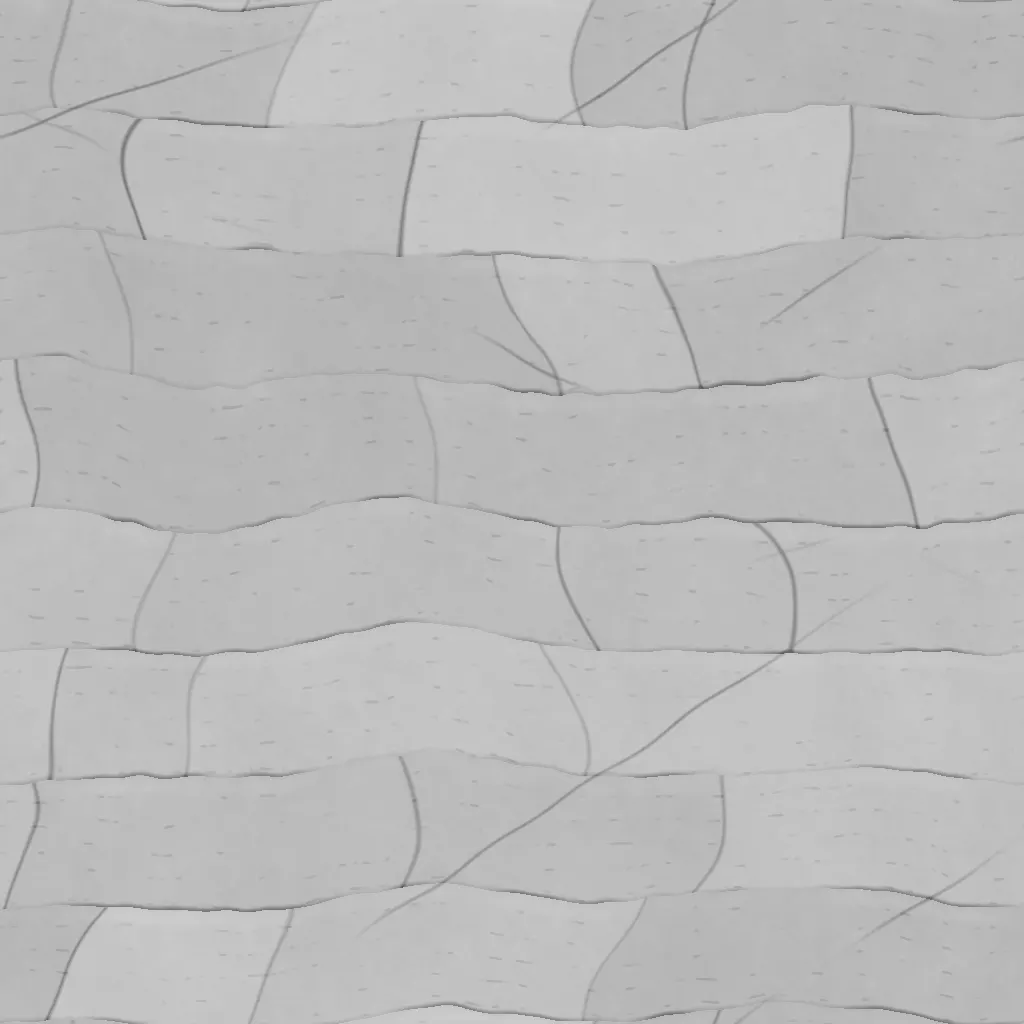
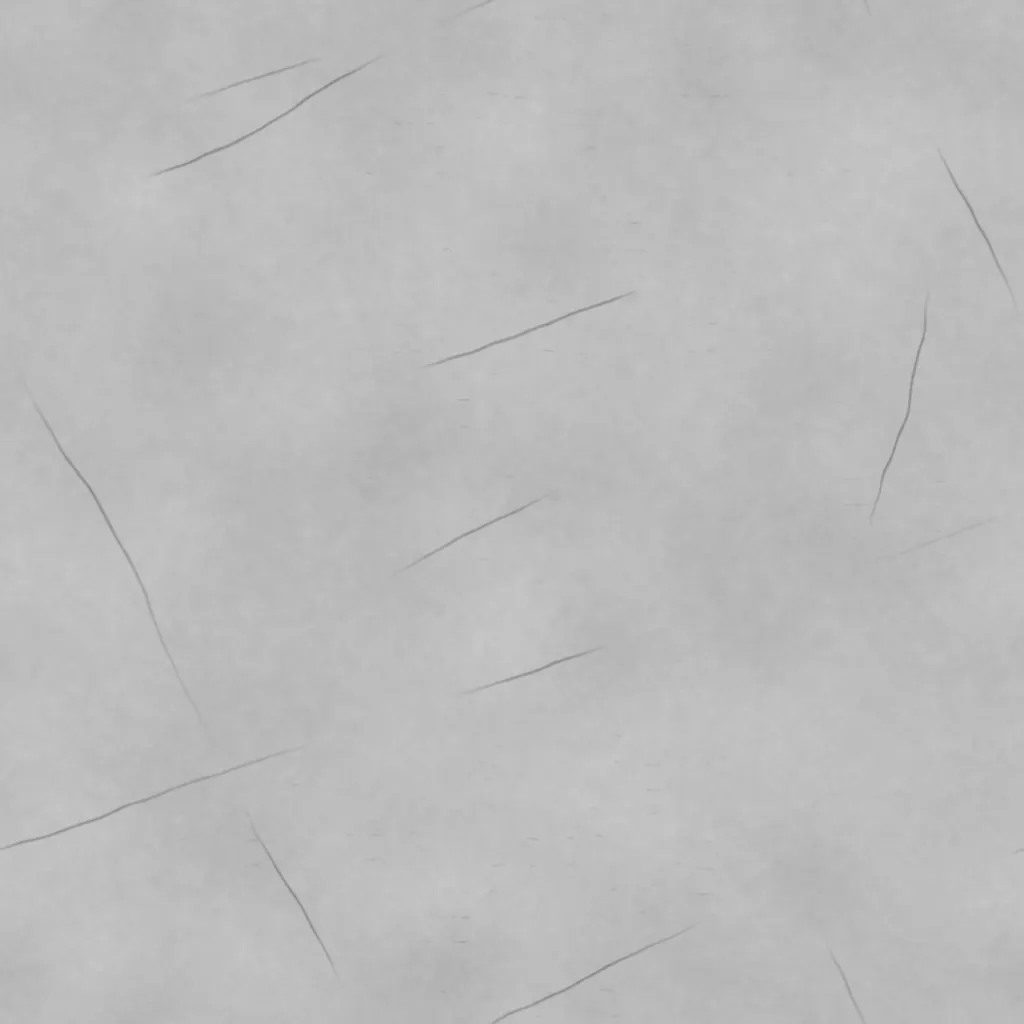
fix(scenery): draw the wall's beds from world height, not from the tile
The tile's beds came out as even courses about 1.5 m high, and with its
joints the wall read as coursed masonry. The tile now holds only grain
and a few broken fractures. The shader draws the bedding planes from
world height: at most one in each 0.9 m, about a third of them open, each
opening and closing along the wall, so beds run from thin ledges to faces
several metres thick and stay level everywhere. Patch shifts no longer
need to be whole beds.

The detail is also much fainter from the saddle (full only within a few
metres, lower crack contrast and relief), so the facets and the vertex
colour bands are the wall again.

diff --git a/js/sceneassets.js b/js/sceneassets.js
@@ -396,24 +396,27 @@ const SceneAssets = (() => {
   // the further off the wall the plainer the pattern. The face's own vertex
   // colours (strata bands, gullies, stains) stay the look at a distance, and
   // the texture is detail on them near the camera:
-  // - it is read at (a level distance, world height), so its beds lie level
-  //   on a leaning wall and round a spur, and a slow noise lifts and drops
-  //   them a little so they are not ruled lines;
+  // - the tile holds only grain and a few fractures, read at (a level
+  //   distance, world height) so its grain lies level on a leaning wall and
+  //   round a spur;
   // - the face is cut into irregular patches by a noise that also climbs
   //   steadily along and up the wall, each patch reading the tile at its own
   //   shift, blended into the next (two reads of each map). A patch number
-  //   never comes back, so no stretch of wall is a copy of another. Shifts are
-  //   whole beds upward (BEDS), so beds run on from patch to patch;
-  // - its strength falls with distance (FADE), and slower noises vary the
-  //   stone's brightness and warmth over tens of metres and band it in beds
-  //   a few metres thick;
-  // - the same tile is read again several times larger (COARSE) and comes in
-  //   as the fine detail goes, so a far wall has broad beds and no grain;
-  // - a near-level facet (a ledge, a spur's crown) is read in plan: height
-  //   does not change across it, so the beds would smear.
-  const BEDS = 8;
-  const FADE = { from: 12, to: 150, far: 0.25 };
-  const COARSE = { scale: 0.23, strength: 0.9, from: 25, to: 140 };
+  //   never comes back, so no stretch of wall is a copy of another;
+  // - the bedding planes are not in the tile but drawn from world height
+  //   (BED), so beds are of any thickness, level everywhere, and open and
+  //   close along the wall. A tile's beds came out as even courses, and with
+  //   its joints as a built wall;
+  // - all of it is faint from the saddle and plain only close up (FADE), so
+  //   the facets and the vertex colours stay what the wall is. The same tile
+  //   is read again several times larger (COARSE) and comes in with distance;
+  // - a near-level facet (a ledge, a spur's crown) is read in plan and takes
+  //   no bedding planes: height does not change across it.
+  const FADE = { from: 5, to: 45, far: 0.2 };
+  const COARSE = { scale: 0.23, strength: 0.5, from: 25, to: 140 };
+  // Bedding planes: one may lie in each `pitch` metres of height, and about a
+  // third do, so beds run from thin ledges to massive faces several metres thick
+  const BED = { pitch: 0.9, dark: 0.4, shadow: 0.18, lift: 0.06, relief: 0.5 };
   // The share of a facet's normal that points up, from which it counts as level (26 degrees of slope)
   const LEVEL = 0.9;
   const ROCK_PARS = /* glsl */ `
@@ -422,6 +425,7 @@ const SceneAssets = (() => {
     varying vec3 vRockAt;
     varying float vRock;
     vec3 rockBump;
+    float rockLedge;
     vec2 rockUv;
 
     float rockHash(vec2 p) {
@@ -436,7 +440,7 @@ const SceneAssets = (() => {
       return mix(mix(rockHash(i), rockHash(i + vec2(1.0, 0.0)), f.x), mix(rockHash(i + vec2(0.0, 1.0)), rockHash(i + vec2(1.0, 1.0)), f.x), f.y);
     }
     vec2 rockShift(float n) {
-      return vec2(rockHash(vec2(n, 17.0)), floor(rockHash(vec2(n, 59.0)) * ${BEDS}.0) / ${BEDS}.0);
+      return vec2(rockHash(vec2(n, 17.0)), rockHash(vec2(n, 59.0)));
     }
     // Two places to read the tile for the point \`at\` (in tiles), one for the
     // patch it is in and one for the next; returns how far it is into the next
@@ -478,7 +482,7 @@ const SceneAssets = (() => {
     vec2 rockMetres = mix(vec2(mix(vUv.x, vUv.y, rockOut), vRockAt.y), vUv, rockLevel);
     float rockBroad = rockNoise(rockMetres * vec2(0.021, 0.034));
     float rockMid = rockNoise(rockMetres * vec2(0.09, 0.19) + 40.0);
-    rockUv = vec2(rockMetres.x, rockMetres.y + (rockMid - 0.5) * 1.4) / rockTile;
+    rockUv = rockMetres / rockTile;
     float rockRange = length(vViewPosition);
 
     vec2 rockA;
@@ -487,7 +491,8 @@ const SceneAssets = (() => {
     float rockDetailA = texture2D(map, rockA).r;
     float rockDetailB = texture2D(map, rockB).r;
     float rockBlend = rockMix(rockDetailA, rockDetailB, rockEdge);
-    float rockNear = mix(${FADE.far.toFixed(2)}, 1.0, 1.0 - smoothstep(${FADE.from.toFixed(1)}, ${FADE.to.toFixed(1)}, rockRange)) * vRock;
+    float rockClose = 1.0 - smoothstep(${FADE.from.toFixed(1)}, ${FADE.to.toFixed(1)}, rockRange);
+    float rockNear = mix(${FADE.far.toFixed(2)}, 1.0, rockClose) * vRock;
     // The texture's neutral grey is 0.5 (tools/blender/rockface_detail.py)
     float rockDetail = mix(1.0, mix(rockDetailA, rockDetailB, rockBlend) * 2.0, rockNear);
     rockBump = mix(vec3(0.5, 0.5, 1.0), mix(texture2D(normalMap, rockA).xyz, texture2D(normalMap, rockB).xyz, rockBlend), rockNear);
@@ -501,16 +506,36 @@ const SceneAssets = (() => {
     float rockCoarse = mix(rockCoarseC, rockCoarseD, rockMix(rockCoarseC, rockCoarseD, rockFarEdge)) * 2.0 - 1.0;
     rockDetail *= 1.0 + rockCoarse * ${COARSE.strength} * smoothstep(${COARSE.from.toFixed(1)}, ${COARSE.to.toFixed(1)}, rockRange) * vRock;
 
-    // Thick beds a few metres deep, swelling and pinching along the wall
-    float rockBed = (rockMetres.y + (rockBroad - 0.5) * 9.0 + (rockMid - 0.5) * 1.6) / 2.7;
-    float rockBand = mix(rockHash(vec2(floor(rockBed), 7.0)), rockHash(vec2(floor(rockBed) + 1.0, 7.0)), smoothstep(0.42, 0.58, fract(rockBed)));
+    // Bedding planes, from world height: the tile has none, so no two beds
+    // need be the same thickness. Each cell of height holds one plane at its
+    // own level, open along some stretches of the wall and closed along others.
+    float rockHeight = (rockMetres.y + (rockBroad - 0.5) * 2.5 + (rockMid - 0.5) * 0.6) / ${BED.pitch};
+    float rockCell = floor(rockHeight);
+    // Metres above the cell's plane
+    float rockPlane = (fract(rockHeight) - 0.15 - 0.7 * rockHash(vec2(rockCell, 3.0))) * ${BED.pitch};
+    float rockOpen = smoothstep(0.72, 0.9, rockHash(vec2(rockCell, 11.0)) * 0.55 + rockNoise(vec2(rockMetres.x * 0.045 + rockCell * 7.31, rockCell * 0.37)) * 0.75);
+    rockOpen *= (1.0 - rockLevel) * vRock * mix(0.45, 1.0, rockClose);
+    // Never thinner than a pixel, or a far wall would shimmer
+    float rockWidth = max(0.03, 1.2 * fwidth(rockMetres.y));
+    float rockCrack = 1.0 - smoothstep(0.0, rockWidth, abs(rockPlane));
+    // The bed above overhangs a little: a soft shadow under the plane
+    float rockShadow = step(rockPlane, 0.0) * (1.0 - smoothstep(0.0, 0.45, -rockPlane));
+    // and the bed above it a shade lighter at its foot
+    float rockLift = step(0.0, rockPlane) * (1.0 - smoothstep(0.0, 1.2, rockPlane));
+    rockDetail *= 1.0 - rockOpen * (${BED.dark} * rockCrack + ${BED.shadow} * rockShadow - ${BED.lift} * rockLift);
+    rockLedge = -sign(rockPlane) * rockOpen * rockClose * ${BED.relief} * (1.0 - smoothstep(0.0, 0.12, abs(rockPlane)));
+
+    // Broad bands a few metres deep, swelling and pinching along the wall
+    float rockBed = (rockMetres.y + (rockBroad - 0.5) * 3.0 + (rockMid - 0.5) * 0.8) / 3.4;
+    float rockBand = mix(rockHash(vec2(floor(rockBed), 7.0)), rockHash(vec2(floor(rockBed) + 1.0, 7.0)), smoothstep(0.3, 0.7, fract(rockBed)));
     rockBand = mix(rockBand, 0.5, rockLevel);
-    vec3 rockStone = rockTint * mix(vec3(1.05, 1.0, 0.94), vec3(0.96, 1.0, 1.05), rockBroad) * (0.82 + 0.14 * rockMid + 0.24 * rockBand);
+    vec3 rockStone = rockTint * mix(vec3(1.04, 1.0, 0.95), vec3(0.97, 1.0, 1.04), rockBroad) * (0.88 + 0.1 * rockMid + 0.14 * rockBand);
     diffuseColor.rgb *= mix(vec3(1.0), rockStone, vRock) * rockDetail;
   `;
   const ROCK_NORMAL = /* glsl */ `
     vec3 mapN = rockBump * 2.0 - 1.0;
     mapN.xy *= normalScale;
+    mapN.y += rockLedge;
     normal = rockPerturb(-vViewPosition, normal, mapN, faceDirection);
   `;
 
@@ -556,7 +581,7 @@ const SceneAssets = (() => {
       faceUVs(ribbon.geometry);
       material.map = detail;
       material.normalMap = bumps;
-      material.normalScale.set(spec.relief ?? 0.5, spec.relief ?? 0.5);
+      material.normalScale.set(spec.relief ?? 0.35, spec.relief ?? 0.35);
       material.onBeforeCompile = (shader) => rockShader(shader, spec);
       material.customProgramCacheKey = () => `rock-face-${spec.tile}-${spec.tint}`;
       material.userData.modelled = "rockFace";

diff --git a/tools/blender/rockface_detail.py b/tools/blender/rockface_detail.py
@@ -1,7 +1,8 @@
-# The rock face's detail texture: bedded, jointed rock generated from seeded
-# noise, as a grey detail map and an OpenGL normal map that tile both ways.
-# The game does not lay it as a wallpaper: js/sceneassets.js samples it at
-# shifting offsets in world space and multiplies it into the face's own vertex
+# The rock face's detail texture: the grain of a rock surface and a few
+# fractures, generated from seeded noise, as a grey detail map and an OpenGL
+# normal map that tile both ways. It holds no beds and no blocks: the game
+# draws the bedding planes from world height (js/sceneassets.js, BED), reads
+# this at shifting offsets and multiplies it into the face's own vertex
 # colours, so it carries no colour and no feature that stands out from the
 # rest (a photo's one odd block shows every time it comes round).
 #   blender --background --factory-startup --python tools/blender/rockface_detail.py
@@ -14,9 +15,6 @@ sys.path.insert(0, os.path.dirname(__file__))
 from common import ASSETS, new_image, reset, save_webp  # noqa: E402
 
 SIZE = 1024
-# Beds to a tile, all one pitch: the game shifts the texture by whole beds, so
-# the bedding planes of two shifted patches meet (js/sceneassets.js, BEDS)
-BEDS = 8
 # The stored grey that leaves the face's colour as it is; the game divides by it
 NEUTRAL = 0.5
 # Slope of the relief in the normal map, in texels of height per texel
@@ -39,78 +37,30 @@ def smooth(edge0, edge1, x):
     return t * t * (3 - 2 * t)
 
 
-def joints(rng):
-    """Where the joints cross one bed, as fractions of the tile, and how open each is: blocks 0.12 to 0.45 of it long."""
-    out = []
-    at = rng.uniform(0, 0.15)
-    while at < 0.9:
-        out.append(at)
-        at += rng.uniform(0.12, 0.45)
-    return numpy.array(out), rng.uniform(0.25, 1.0, len(out))
+# Fracture sets as (turns, rise, wander): a line crosses the tile `turns`
+# times across and `rise` times up, whole numbers so it tiles. Two sets stand
+# near upright (the joints), two run at a slant.
+FRACTURES = ((1, 0, 0.05), (2, 1, 0.03), (-1, 2, 0.03), (1, -3, 0.02))
 
 
 def build():
     rng = numpy.random.default_rng(7)
     y, x = numpy.mgrid[0:SIZE, 0:SIZE] / SIZE
-    # Bedding planes wander slowly, so beds swell and pinch along their length
-    warp = 0.22 * noise(rng, 1, 3, stretch=0.6) + 0.035 * noise(rng, 5, 20, stretch=0.6)
-    s = y * BEDS + warp
-    bed = numpy.floor(s).astype(int) % BEDS
-    t = s - numpy.floor(s)
-
-    # A joint leans and wanders as it crosses its bed
-    along = (x + 0.006 * noise(rng, 3, 14) + (t - 0.5) * 0.1 * noise(rng, 1, 5)) % 1.0
-    block = numpy.zeros((SIZE, SIZE), dtype=int)
-    gap = numpy.ones((SIZE, SIZE))
-    width = numpy.ones((SIZE, SIZE))
-    across = numpy.zeros((SIZE, SIZE))
-    count = 0
-    for b in range(BEDS):
-        cuts, opening = joints(rng)
-        inside = bed == b
-        index = (numpy.searchsorted(cuts, along[inside], side="right") - 1) % len(cuts)
-        near = numpy.abs(along[inside][:, None] - cuts[None, :])
-        near = numpy.minimum(near, 1 - near)
-        block[inside] = count + index
-        gap[inside] = near.min(axis=1)
-        width[inside] = opening[near.argmin(axis=1)]
-        # Position across the block, -0.5 to 0.5, for its tilt
-        length = numpy.diff(numpy.append(cuts, cuts[0] + 1))[index]
-        across[inside] = ((along[inside] - cuts[index]) % 1.0) / length - 0.5
-        count += len(cuts)
-
-    # Each block is a flat facet: how far it stands out, which way it tilts, its shade
-    proud = 0.75 + rng.uniform(-0.25, 0.25, count)[block]
-    tilt = rng.uniform(-0.3, 0.3, count)[block] * across + rng.uniform(-0.25, 0.25, count)[block] * (t - 0.5)
-    shade = rng.uniform(-1, 1, count)[block]
-    # A bedding plane opens and closes along its length: a ledge here, a hairline there
-    # (closed for a stretch, two beds read as one thick one)
-    parting = smooth(-0.25, 0.35, noise(rng, 1, 6, stretch=0.35))
-    # Fractures that cut across the beds at a slant, each open for part of its
-    # length. Whole numbers of turns a tile, so they tile.
+    # Each fracture is open for about a third of its length and wanders, so
+    # the joints are few, broken and never a grid
     fracture = numpy.ones((SIZE, SIZE))
-    for turns, rise in ((1, 2), (-1, 3), (2, -3)):
-        offset = rng.uniform()
-        line = numpy.abs((x * turns + y * rise + offset + 0.02 * noise(rng, 2, 10)) % 1.0 - 0.5) / numpy.hypot(turns, rise)
-        fracture *= 1 - (1 - smooth(0.0, 0.003, line)) * 0.8 * smooth(0.1, 0.6, noise(rng, 1, 5))
-    # A joint is a narrow crack, a bedding plane an undercut ledge; both have hard edges
-    joint = (1 - (1 - smooth(0.0, 0.004, gap)) * width) * fracture
-    ledge = 1 - (1 - smooth(0.0, 0.05, t) * smooth(0.0, 0.1, 1 - t)) * (0.2 + 0.8 * parting)
+    for turns, rise, wander in FRACTURES:
+        line = numpy.abs((x * turns + y * rise + rng.uniform() + wander * noise(rng, 1, 6) + 0.006 * noise(rng, 8, 30)) % 1.0 - 0.5) / numpy.hypot(turns, rise)
+        fracture *= 1 - (1 - smooth(0.0, 0.0028, line)) * smooth(0.15, 0.5, noise(rng, 1, 4))
+
     rough = noise(rng, 20, 220)
-    lumps = noise(rng, 3, 12)
-    height = (proud + tilt) * (0.25 + 0.75 * ledge) * (0.4 + 0.6 * joint) + 0.04 * lumps + 0.025 * rough
+    lumps = noise(rng, 2, 10)
+    # Laminations: short level dashes, in drifts
+    phase = y * 40 + 0.4 * noise(rng, 2, 8, stretch=0.4)
+    lines = smooth(0.92, 1.0, numpy.sin(phase * 2 * numpy.pi)) * smooth(0.15, 0.5, noise(rng, 4, 24, stretch=0.2)) * smooth(-0.2, 0.4, noise(rng, 1, 3))
+    height = 0.5 + 0.12 * lumps + 0.06 * rough - 0.05 * lines - 0.5 * (1 - fracture)
 
-    # Laminations inside a bed: short level dashes
-    phase = s * 5 + 0.25 * noise(rng, 2, 8, stretch=0.4)
-    lines = smooth(0.9, 1.0, numpy.sin(phase * 2 * numpy.pi)) * smooth(0.1, 0.45, noise(rng, 4, 24, stretch=0.2))
-    height -= 0.05 * lines
-
-    # Grey detail: the cracks and the undersides dark, the top edge of a ledge
-    # a little light, each block a little off its neighbours
-    under = 1 - smooth(0.0, 0.045, t)
-    rim = smooth(0.82, 0.93, t) * (1 - smooth(0.95, 1.0, t))
-    crack = (1 - joint) * 0.6 + (under * 0.6 - rim * 0.06) * (0.2 + 0.8 * parting)
-    detail = 1 + 0.1 * shade + 0.05 * lumps + 0.05 * rough - 0.2 * lines - numpy.clip(crack, -0.2, 0.75)
+    detail = 1 + 0.1 * lumps + 0.09 * rough - 0.16 * lines - 0.45 * (1 - fracture)
     detail = numpy.clip(detail, 0.2, 1.6)
     detail *= 1 / detail.mean()
 

diff --git a/tools/blender/README.md b/tools/blender/README.md
@@ -18,7 +18,7 @@ Each script is deterministic (fixed seeds, fixed sources) and writes its output 
 |---|---|---|
 | `gorge_rocks.py` | `rocks.glb` | Five rock variants, 700 to 900 triangles each, centred, mean radius 1. Each is baked from a high-poly sculpt (cut faces, voxel remesh, layered displacement, a scanned rock surface) into one shared 1024 px atlas: base colour, normal, and AO with roughness in one 512 px map. |
 | `gorge_portal.py` | `portal.glb` | `portal_arch` (masonry headwall, voussoirs, keystone, string course, cornice, parapet, piers) and `portal_wing` (one wing wall, the game mirrors it). Modelled for an opening 11 m wide each way and 7.5 m high. |
-| `rockface_detail.py` | `rockface/detail.webp`, `rockface/normal.webp` | The rock face's detail: bedded, jointed, fractured rock made from seeded noise (no photo, no download), as a grey map and a normal map, 1024 px, 130 KB together. It tiles, with eight beds of one pitch to a tile. |
+| `rockface_detail.py` | `rockface/detail.webp`, `rockface/normal.webp` | The rock face's detail: the grain of a rock surface and a few broken fractures, made from seeded noise (no photo, no download), as a grey map and a normal map that tile, 1024 px, 152 KB together. It holds no beds: the shader draws those. |
 
 `common.py` holds the shared steps: scene reset, Poly Haven fetch, WebP save, glTF export.
 
@@ -31,8 +31,9 @@ Plain glTF binary with WebP textures (`EXT_texture_webp`), at most 1024 px. Not 
 The wall of a leg keeps its shape and its vertex colours (strata bands, gullies, moss and water stains). `js/sceneassets.js` works the detail into them in the ribbon material's shader (`rockShader`), and never lays it as a wallpaper: a photo tiled along the gorge showed the same blocks every few metres, at any distance.
 
 - The detail is read at a level distance and world height, so its beds are level on a leaning wall and round a spur. A wall takes the distance along the road, a face that crosses the road (a spur's flank and end) the distance out from it, a near-level facet both (`faceUVs` stores the two in the ribbon's UVs).
-- The face is cut into irregular patches, each reading the tile at its own shift, blended into the next. The patch number climbs along and up the wall and never comes back. Shifts are whole beds upward, so the script's `BEDS` and the shader's must agree.
-- The fine detail fades with distance (`FADE`) while the same tile, read several times larger (`COARSE`), comes in. Slow noises vary the stone's brightness and warmth and band it in beds a few metres thick.
+- The face is cut into irregular patches, each reading the tile at its own shift, blended into the next. The patch number climbs along and up the wall and never comes back.
+- The bedding planes are drawn from world height in the shader (`BED`), not held in the tile: one may lie in each 0.9 m of height and about a third do, each open along some stretches of the wall and closed along others. So beds run from thin ledges to faces several metres thick. Beds held in the tile came out as even courses, and with its joints read as a built wall.
+- The detail is faint from the saddle and plain only within a few metres (`FADE`), so the facets and the vertex colours stay what the wall is. The same tile, read several times larger (`COARSE`), comes in with distance. Slow noises vary the stone's brightness and warmth a little.
 - Cost on foggy-gorge: six texture reads a fragment, two before. Measured with `tools/terrain-check.mjs frametime`, interleaved with the photo version: about 2.4 to 2.8 ms a frame on an Apple M5, 196 to 226 ms in SwiftShader.
 
 To give another leg's wall the same treatment, add `rockFace: { map, normalMap, tile, tint }` to its entry in `LEGS`, naming the same two files: `tile` is the metres one copy covers, `tint` the stone the vertex colours shade. A leg with no models of its own also needs `dress()` to skip the parts its entry does not name; today it asks for all three. Not high-pass: it is bound to the frozen golden (`.agent/system/world.md`, "Golden bindings").
